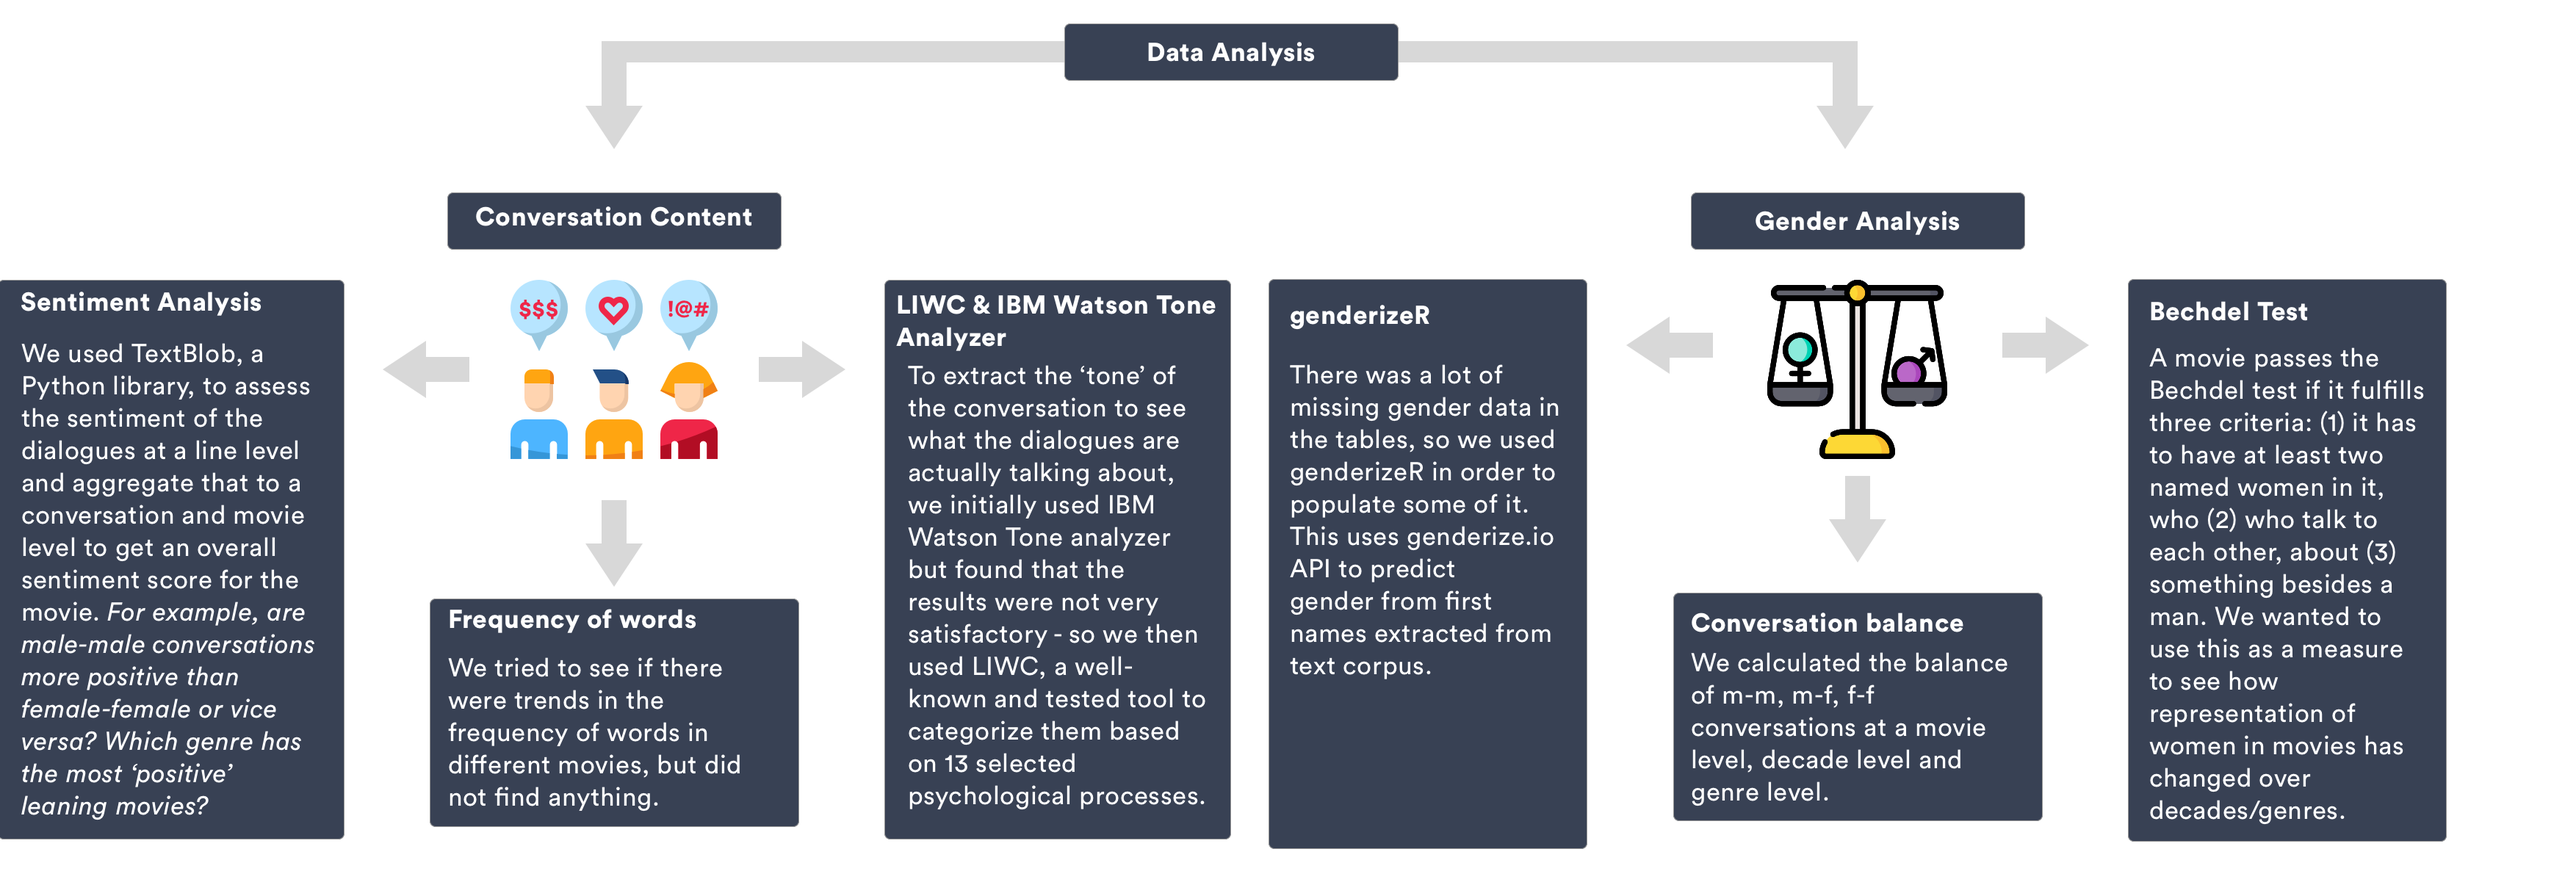
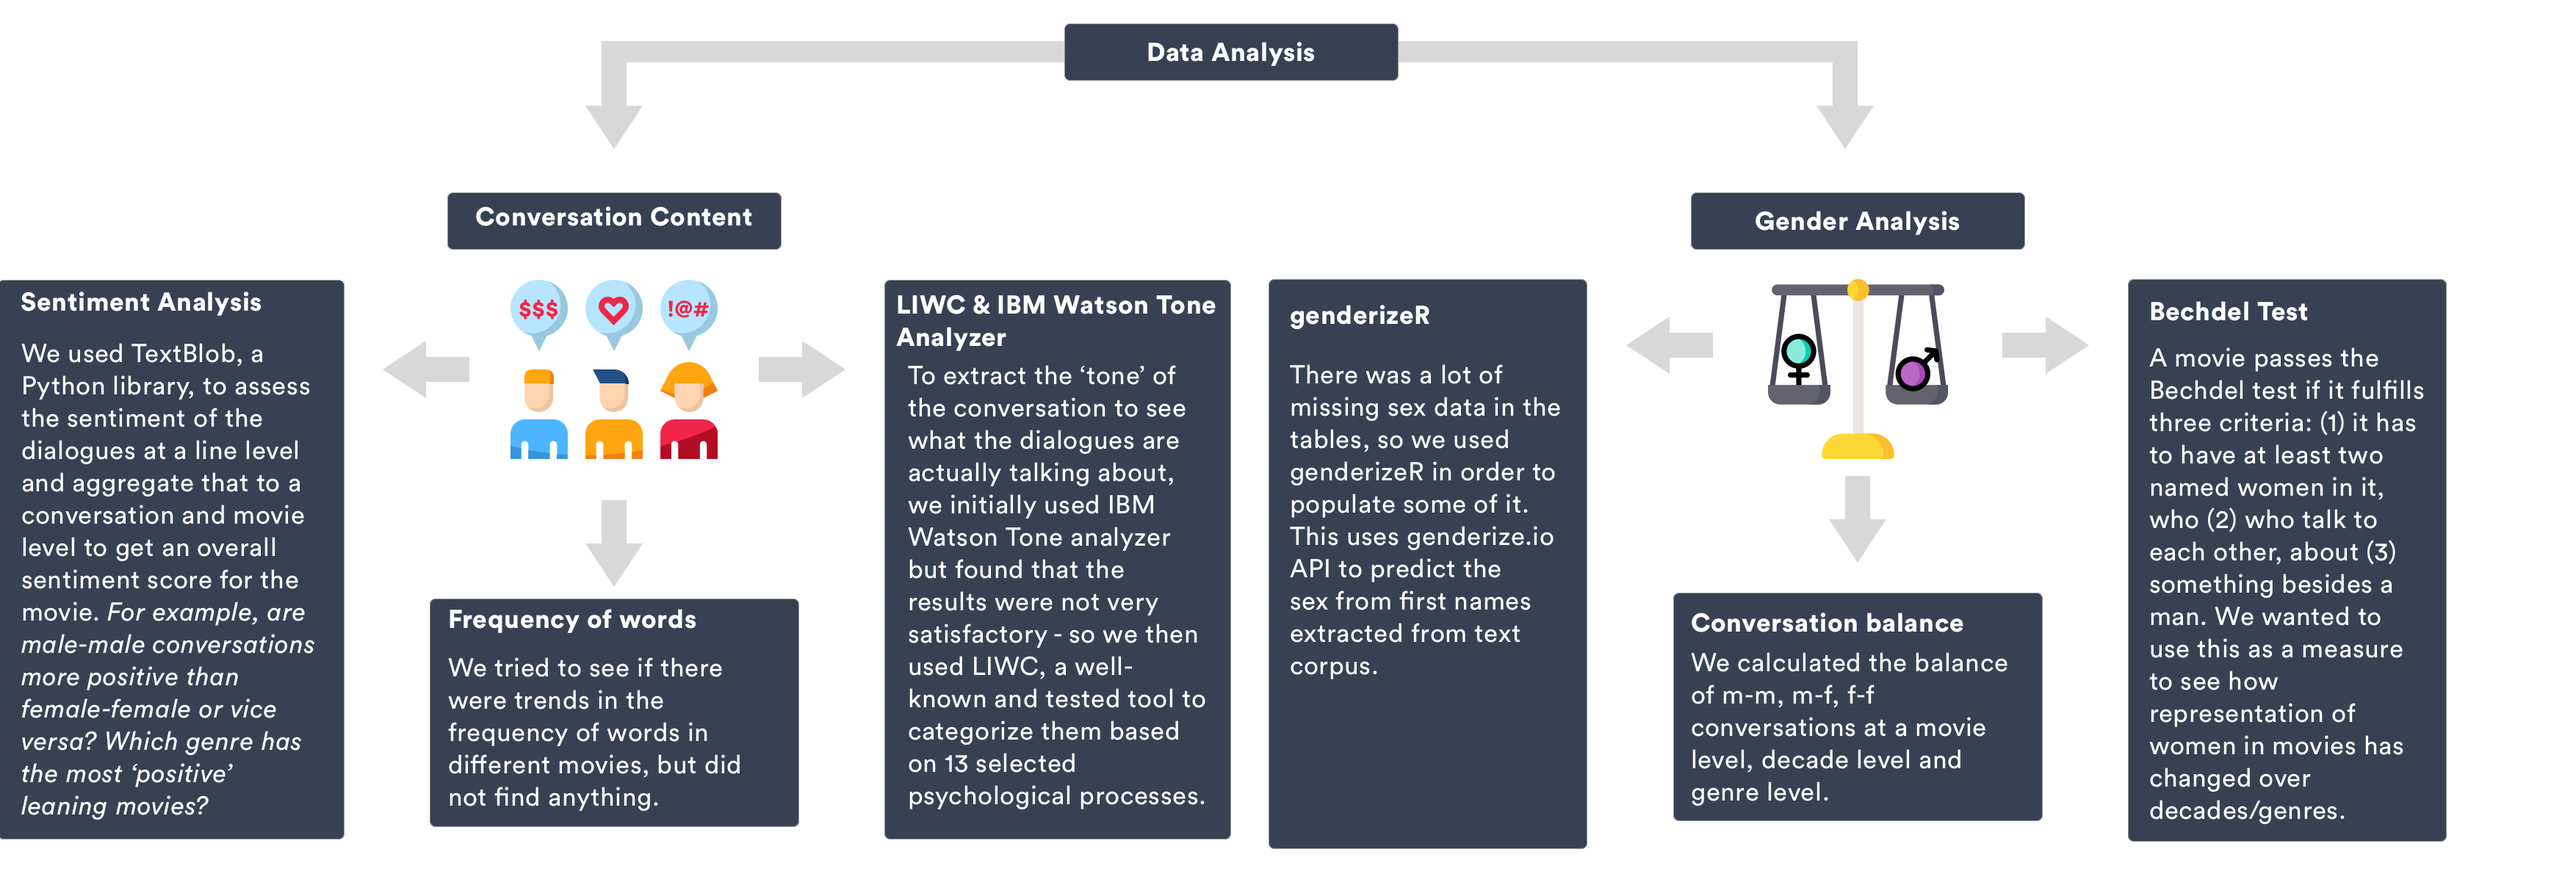
info viz updates

Changed region(s): [[0.6838, 0.3071, 0.777, 0.522], [0.4973, 0.6448, 0.5905, 0.7676], [0.4973, 0.4299, 0.6216, 0.522]]

diff --git a/keeping-it-reel.html b/keeping-it-reel.html
@@ -153,13 +153,13 @@
                         <h5 class="text-center"><br>User Goals</h5>
                         <div class="opacity-box">
                             <p><b>Explore dialogue content</b> <br>How do conversation themes and genres intersect? In a specific movie, how do themes intersect with characters? What are the patterns of conversations between characters?<br><br>
-                            <b>Gain insight into gender ratio & balances</b><br>How does inter & intra sex ratio in conversations vary over years and themes? Do certain genres have a better female-female balance in conversations? How do these ratios intersect with movies that pass or fail the Bechdel test?></p>
+                            <b>Gain insight into intra and inter sex ratio & balances</b><br>How does inter & intra sex ratio in conversations vary over years and themes? Do certain genres have a better female-female balance in conversations? How do these ratios intersect with movies that pass or fail the Bechdel test?></p>
                         </div>
 
 
                         <h5 class="text-center"><br>Data Analysis</h5>
                         <div class="opacity-box">
-                            We did a lot of cleaning, data preprocessing, natural language processing (NLP) & analysis to help facilitate different ways to achieve our two main user goals:</p>
+                            We did a lot of cleaning, data preprocessing, natural language processing (NLP) & analysis to help facilitate different ways to achieve our two main user goals.<br><i>Disclaimer - Unfortunately, the Genderizer API and our dataset in general did not include any information for non-binary genders.</i></p>
                         </div>
                         <div class="margin-box">
                             <div class="image-center img-box" style="width:100%;">
@@ -195,7 +195,7 @@
                         
                         <h5 class="text-center">Idea #2</h5>
                         <div class="opacity-box">
-                            <p>This idea gives the users the option of drilling down by genre or by decade in a fun, whimsical way - like a calendar or movie board. Once they select any of these categories, we would then have maybe a dense pixel mapping of movie titles filtered to that genre/decade with the overall sentiment and gender balance trends for that specific genre/decade in the side panel. </p><br>
+                            <p>This idea gives the users the option of drilling down by genre or by decade in a fun, whimsical way - like a calendar or movie board. Once they select any of these categories, we would then have maybe a dense pixel mapping of movie titles filtered to that genre/decade with the overall sentiment and sex ratio balance trends for that specific genre/decade in the side panel. </p><br>
                         </div>
                         <div class="margin-box">
                             <div class="image-center img-box" style="width:60%;">
@@ -204,7 +204,7 @@
                             </div>
                         </div>
                         <div class="opacity-box">
-                            <p>In the detail view, we have the conversation mapping between different characters in the movie, in the form of an arc diagram, with each node representing a character in the film. Hovering over an arc would or clicking on it would give us more information about the conversation in the form of a popup. Here, we also have sentiment and gender balance trends for the specific movie to compare to the overall trends.
+                            <p>In the detail view, we have the conversation mapping between different characters in the movie, in the form of an arc diagram, with each node representing a character in the film. Hovering over an arc would or clicking on it would give us more information about the conversation in the form of a popup. Here, we also have sentiment and sex ratio balance trends for the specific movie to compare to the overall trends.
                             </p><br>
                         </div>
                         <div class="margin-box">
@@ -216,7 +216,7 @@
 
                         <h5 class="text-center">Idea #3</h5>
                         <div class="opacity-box">
-                            <p>In this design, the user could select a movie and they would see details about it like the sentiment, gender ratios, IMDB ratings (dials in the top left quadrant), bar charts to show words/themes by gender (bottom left quadrant), arc diagram to show conversation mapping with each character as a node (bottom right quadrant) and a density pixel of top words used (top right quadrant).
+                            <p>In this design, the user could select a movie and they would see details about it like the sentiment, sex balance ratios, IMDB ratings (dials in the top left quadrant), bar charts to show words/themes by sex (bottom left quadrant), arc diagram to show conversation mapping with each character as a node (bottom right quadrant) and a density pixel of top words used (top right quadrant).
                             </p><br>
                         </div>
                         <div class="margin-box">
@@ -229,7 +229,7 @@
 
                         <h5 class="text-center">Idea #4</h5>
                         <div class="opacity-box">
-                            <p>This was a highly analytical visualization, which allowed users to see cross gender, word, sentiment and ratings trends through treemaps, bar charts and stacked area charts. The user could also drill down from high-level trends across genre and time, to details about individual movies. The rest of the viz mostly focused on the top words in different categories - positive/negative sentiment, same-gender/cross-gender conversations, context and so on.</p><br>
+                            <p>This was a highly analytical visualization, which allowed users to see cross sex, word, sentiment and ratings trends through treemaps, bar charts and stacked area charts. The user could also drill down from high-level trends across genre and time, to details about individual movies. The rest of the viz mostly focused on the top words in different categories - positive/negative sentiment, same-sex/cross-sex conversations, context and so on.</p><br>
                         </div>
                         <div class="row">
                             <div class="col-lg-6 margin-box">
@@ -265,12 +265,12 @@
                         <div class="opacity-box">
                             <p>Based on overall feedback, we went with an overview and detail view as people were interested in discovering high level patterns and then drilling down to a specific movie.<br>Overview view has overall trends through a dense pixel mapping of all the movies across sentiment, bucketed by decade, and shaded by whether they pass the Bechdel test or not. It also has along with a bar graph of top themes across decades.</p><br>
                         </div>
-                        <div class="image-center margin-box">
+<!--                         <div class="image-center margin-box">
                             <iframe width="800" height="515" src="https://xd.adobe.com/embed/a0b7f9cf-3a58-40ae-7ac4-3b7554524920-d686/" frameborder="0" allowfullscreen></iframe>
                             <div class="legend">Clickable prototype</div>
-                        </div>
+                        </div> -->
                         <div class="opacity-box">
-                            <p>The detail view, once a user chooses a movie, has a network diagram of conversations through a hybrid between a parallel coordinate and an arc diagram. This has two axes for male and female characters, with arcs between nodes on the same axes representing same gender conversations and lines between the two representing cross gender ones. The view also has sliders for sentiment and bars to indicate gender balance for that movie vs the decade it was released in, as well as top themes shown through bubbles.</p><br>
+                            <p>The detail view, once a user chooses a movie, has a network diagram of conversations through a hybrid between a parallel coordinate and an arc diagram. This has two axes for male and female characters, with arcs between nodes on the same axes representing same sex conversations and lines between the two representing cross sex ones. The view also has sliders for sentiment and bars to indicate sex balance for that movie vs the decade it was released in, as well as top themes shown through bubbles.</p><br>
                         </div>
                         <div class="image-center margin-box">
                             <iframe width="800" height="515" src="https://xd.adobe.com/embed/a0b7f9cf-3a58-40ae-7ac4-3b7554524920-d686/" frameborder="0" allowfullscreen></iframe>
@@ -279,7 +279,7 @@
 
                         <h5 class="text-center">Changes to Iteration #1</h5>
                         <div class="opacity-box">
-                            <p>Based on further data analysis, we found no interesting pattern for the sentiment, and found that the gender balances in the conversations over the decades were more interesting. Further, themes were unchanging across decades - so we did not see the value in showing that, rather we showed the conversational themes obtained from LIWC across genres. For the detail view, as we implemented it we made some design changes - the theme bubbles made it difficult to distinguish the value for each theme so we opted for bars instead, and placed the stacked bar charts next to one another for easy comparison.
+                            <p>Based on further data analysis, we found no interesting pattern for the sentiment, and found that the sex balances in the conversations over the decades were more interesting. Further, themes were unchanging across decades - so we did not see the value in showing that, rather we showed the conversational themes obtained from LIWC across genres. For the detail view, as we implemented it we made some design changes - the theme bubbles made it difficult to distinguish the value for each theme so we opted for bars instead, and placed the stacked bar charts next to one another for easy comparison.
                             <br></p>
                         </div>
 

diff --git a/index.html b/index.html
@@ -97,6 +97,7 @@
                             <div class="opacity-box">
                                 <p><h4>I create impactful and enriching experiences that make people happy. I love forming empathetic connections with people and solving their problems with design.</h4></p>
                             </div>
+
                         </div>
 <!--                         <div class="about-me-info hidden-sm hidden-xs">
                             <p class="info-row">
@@ -133,6 +134,7 @@
                             <a class="site-btn btn-theme-white-tr hidden-sm hidden-xs" href="download/Resume.pdf" download>Download cv</a>
                         </div> -->
                     </div>
+                    
                 </div>
             </div>
         </div>
